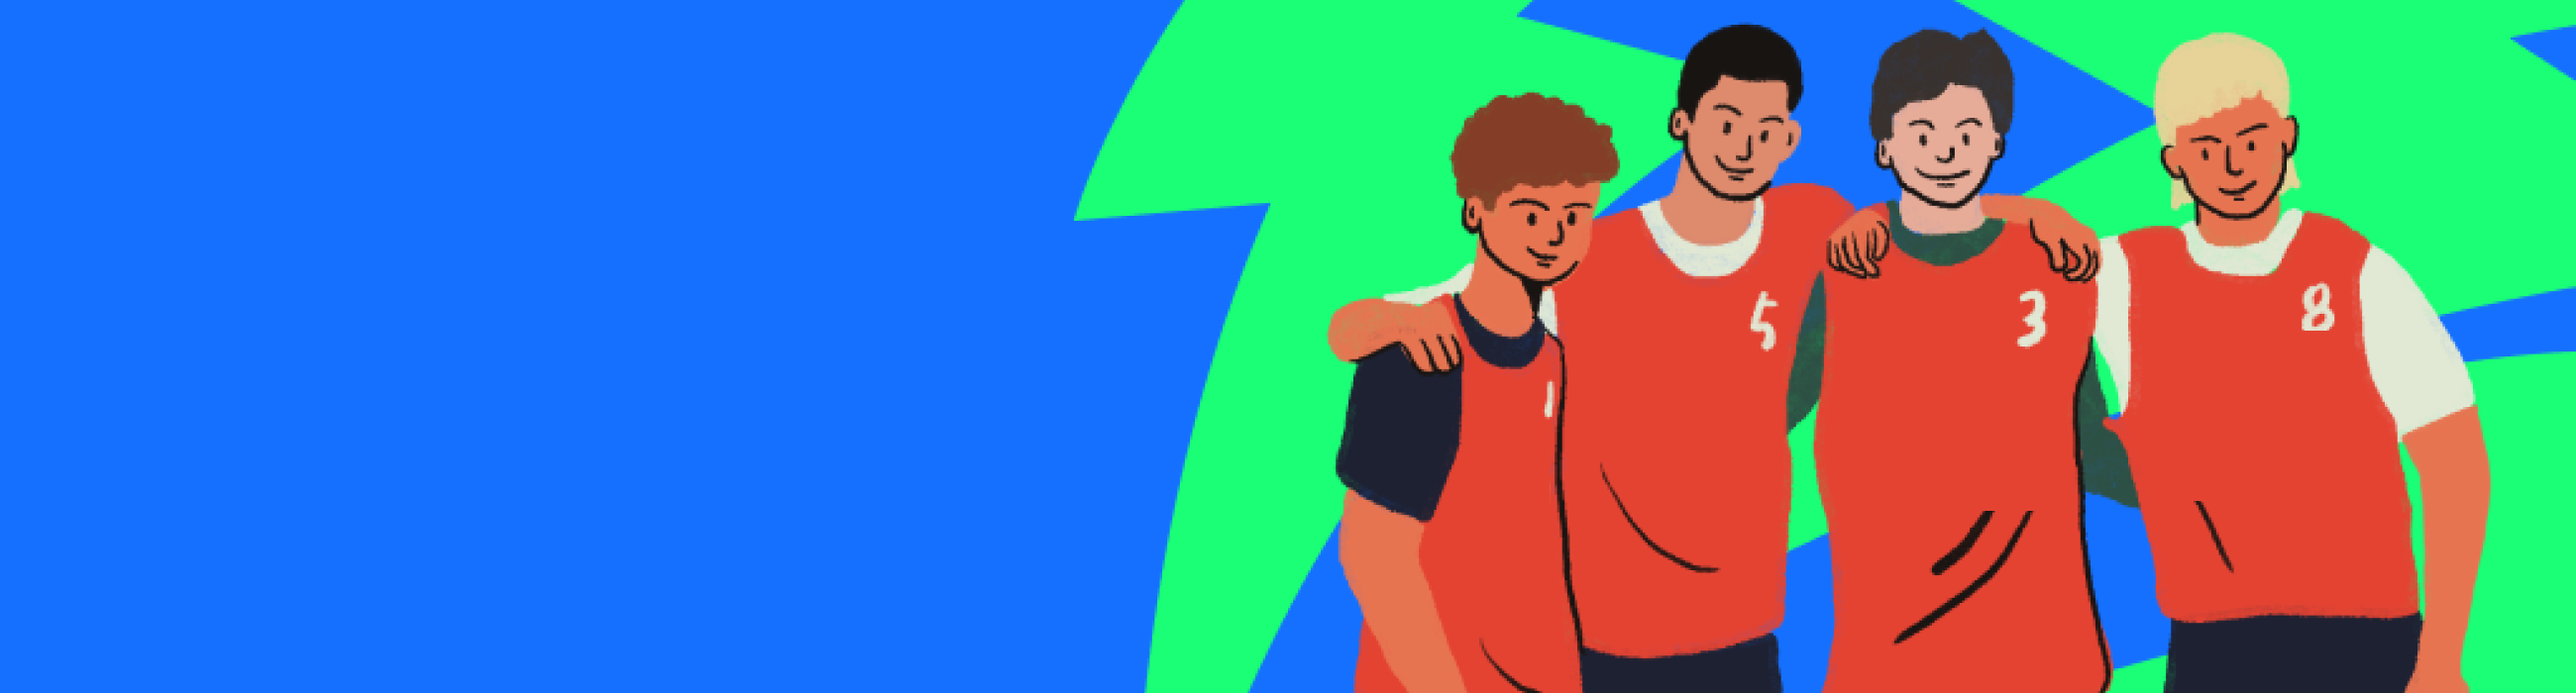
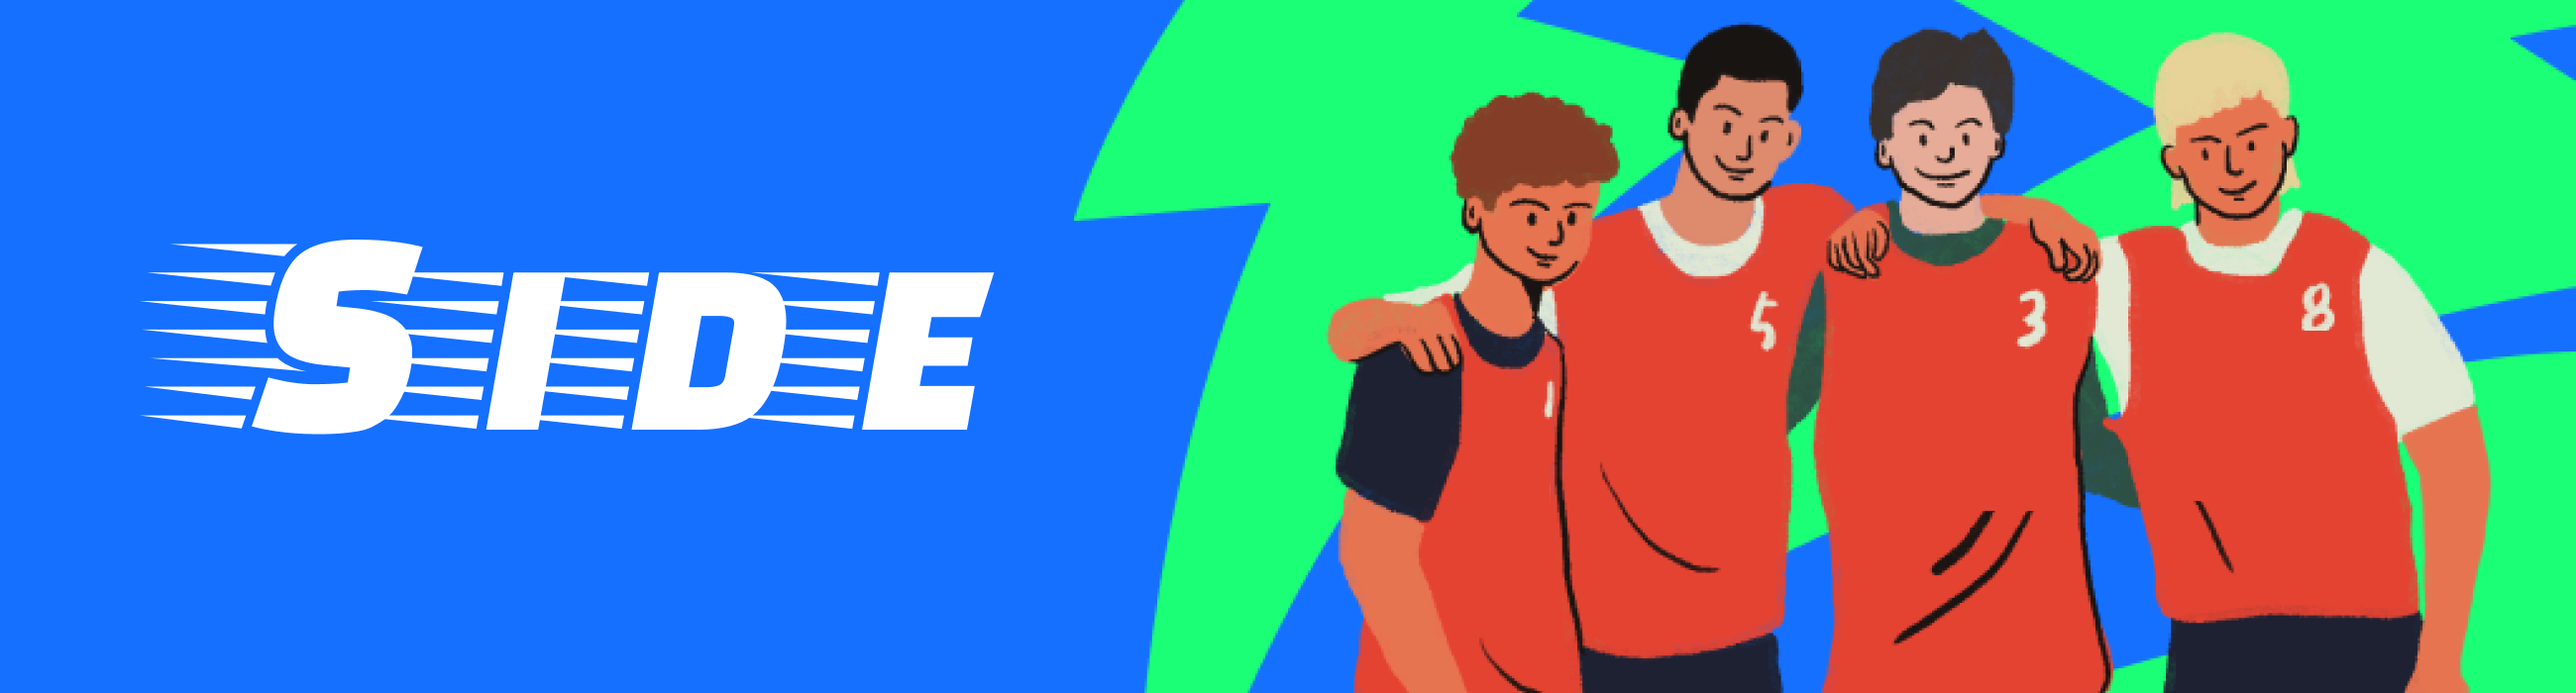
style : 메인 페이지 스타일링 수정

Changed region(s): [[0.0623, 0.33, 0.405, 0.63]]

diff --git a/Match/src/pages/home/Home.tsx b/Match/src/pages/home/Home.tsx
@@ -1,17 +1,14 @@
 import SearchBar from '@/components/searchbar/SearchBar';
 import Menu from '@/components/menu/Menu';
 import MatchList from '@/components/match/matchlist/MatchList';
-import * as H from './Styles';
 import WeekCalendar from '@/components/calendar/WeekCalendar.tsx';
+import ImageBanner from '@/components/imagebanner/ImageBanner.tsx';
 
+const bannerImageUrl = 'src/assets/mainImage.png';
 const Home = () => {
-  // const time = '20:00';
-  // const location = '숭실대학교 풋살 구장 A';
-  // const title = '남성 6vs6 랭크 매치 (프로)';
-
   return (
     <div>
-      <H.DefaultContainer />
+      <ImageBanner imgUrl={bannerImageUrl} />
       <SearchBar />
       <WeekCalendar />
       <Menu />

diff --git a/Match/src/components/searchbar/Styles.tsx b/Match/src/components/searchbar/Styles.tsx
@@ -12,12 +12,13 @@ export const Container = styled.div`
 `;
 
 export const SearchBarContainer = styled.div`
+  margin-top: 3rem;
   width: 100%;
-  height: 5rem;
+  height: 6rem;
   display: flex;
   flex-direction: row;
   background-color: #fff;
-  padding-left: 3rem;
+  //padding-left: 3rem;
   justify-content: flex-start;
   align-items: center;
   color: ${Color.MainColor};
@@ -26,11 +27,12 @@ export const SearchBarContainer = styled.div`
 `;
 
 export const Input = styled.input`
+  margin-left: 3rem;
   flex: 1;
   background: transparent;
   border: none;
   outline: none;
-  font-size: ${Font.SIZE.BODY3};
+  font-size: ${Font.SIZE.BODY1};
   font-weight: ${Font.WEIGHT.REGULAR};
   height: 3rem;
   &::placeholder {

diff --git a/Match/src/components/imagebanner/ImageBanner.tsx b/Match/src/components/imagebanner/ImageBanner.tsx
@@ -10,6 +10,7 @@ const ImageBanner: React.FC<ImageBannerProps> = ({imgUrl}) => {
     <div
       style={{
         display: 'flex',
+        width: '100%',
         justifyContent: 'center',
         alignItems: 'center',
       }}
